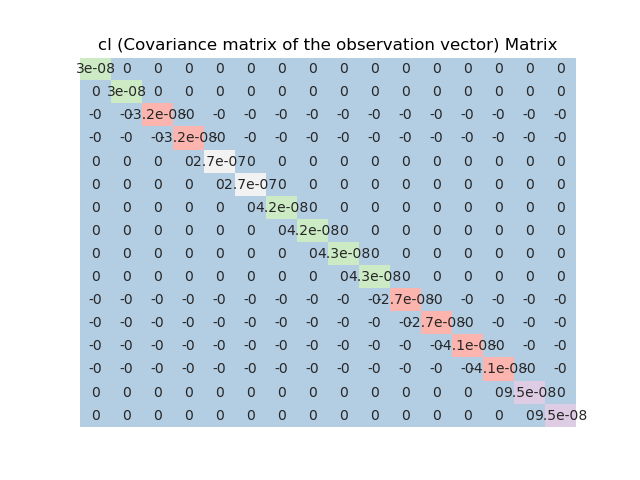
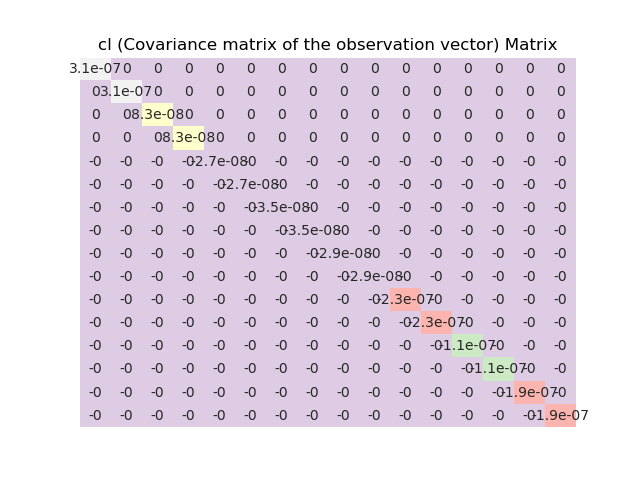
Trig functions converted to 3D trig. WARNING: code not running.

diff --git a/Data.py b/Data.py
@@ -153,21 +153,19 @@ NOTE: Satellite G24 has the highest elevation: 71 degrees.
 """
 
 # Calculate Satelite elevation from a local horizon.
-def elevation_calculator(ECtoSat_Z, ECtoSat_X, EctoRec_Z, EctoRec_X, SattoRec_range):
+def elevation_calculator(rec_XYZ, sat_XYZ, obs):
 
-    EC_sat_range = sqrt((ECtoSat_X ** 2) + (ECtoSat_Z ** 2))
-    EctoRec_range = sqrt((EctoRec_X) ** 2 + (EctoRec_Z ** 2))
-    SattoRec_range = SattoRec_range
+    r_rv = sqrt(abs(rec_XYZ[0]**2) + abs(rec_XYZ[1]**2))
+    re = sqrt(abs(r_rv**2) + abs(rec_XYZ[2]))
+    s_rv = sqrt(sat_XYZ[0]**2 + sat_XYZ[1]**2)
+    se = sqrt(s_rv**2 + sat_XYZ[2])
+    # Calculate subtending angle between receiver, center of the earth and the satellite.
+    theta = ((acos(((se ** 2) + (re ** 2) - (rec_XYZ[2] ** 2))/(2 * se * re))))
+    print("Earth center vector = radians: ", theta, "degrees: ", degrees(theta) )
+    cos_el = (sin(theta)) / sqrt((1 + ((re/obs[0])**2) * (-2 * (re/obs[0])) * cos(theta)))
+    el = degrees((acos(cos_el)))
+    return (el - 90)
 
-    c = EC_sat_range
-    b = EctoRec_range
-    a = SattoRec_range
-
-
-    angle = degrees((acos((c ** 2 - b ** 2 - a ** 2) / (-2.0 * a * b))))
-
-    elevation = abs(angle - 90)
-    return elevation
 
 
 def variance(s, e):
@@ -177,17 +175,26 @@ def variance(s, e):
 l1_SD = 0.003
 
 # Determine elevationss
-G24_elevation = (elevation_calculator(G24[2], G24[0], pillar_1A_base[2], pillar_1A_base[0], G24_base_obs[0]))
-G19_elevation = (elevation_calculator(G19[2], G19[0], pillar_1A_base[2], pillar_1A_base[0], G19_base_obs[0]))
-G17_elevation = (elevation_calculator(G17[2], G17[0], pillar_1A_base[2], pillar_1A_base[0], G17_base_obs[0]))
-G15_elevation = (elevation_calculator(G15[2], G15[0], pillar_1A_base[2], pillar_1A_base[0], G15_base_obs[0]))
-G13_elevation = (elevation_calculator(G13[2], G13[0], pillar_1A_base[2], pillar_1A_base[0], G13_base_obs[0]))
-G12_elevation = (elevation_calculator(G12[2], G12[0], pillar_1A_base[2], pillar_1A_base[0], G12_base_obs[0]))
-G10_elevation = (elevation_calculator(G10[2], G10[0], pillar_1A_base[2], pillar_1A_base[0], G10_base_obs[0]))
-G18_elevation = 5 # Something wrong with this satellite..(Random Value for now)
+G24_elevation = elevation_calculator(pillar_3A_rover, G24, G24_rover_obs)
+G19_elevation = elevation_calculator(pillar_3A_rover, G19, G19_rover_obs)
+# G17_elevation = elevation_calculator(pillar_3A_rover, G17, G17_rover_obs)
+G15_elevation = elevation_calculator(pillar_3A_rover, G15, G15_rover_obs)
+G13_elevation = elevation_calculator(pillar_3A_rover, G13, G13_rover_obs)
+G12_evation = elevation_calculator(pillar_3A_rover, G12, G12_rover_obs)
+G10_elevation = elevation_calculator(pillar_3A_rover, G10, G10_rover_obs)
+G18_elevation = elevation_calculator(pillar_3A_rover, G18, G18_rover_obs)
+
+print("G24 angle of elevation:", G24_elevation)
+print("G19 angle of elevation:", G19_elevation)
+# print("G17 angle of elevation:", G17_elevation)
+print("G15 angle of elevation:", G15_elevation)
+print("G13 angle of elevation:", G13_elevation)
+print("G12 angle of elevation:", G12_elevation)
+print("G10 angle of elevation:", G10_elevation)
+print("G18 angle of elevation:", G18_elevation)
+
 
 # Populate the a vector of variances.
-
 G24_variance = variance(l1_SD, G24_elevation)
 G19_variance = variance(l1_SD, G19_elevation)
 G17_variance = variance(l1_SD, G17_elevation)
@@ -212,14 +219,14 @@ variances = np.array([
 
 
 
-# print("G24 angle of elevation:", G24_elevation)
-# print("G19 angle of elevation:", G19_elevation)
-# print("G17 angle of elevation:", G17_elevation)
-# print("G15 angle of elevation:", G15_elevation)
-# print("G13 angle of elevation:", G13_elevation)
-# print("G12 angle of elevation:", G12_elevation)
-# print("G10 angle of elevation:", G10_elevation)
-# print("G18 angle of elevation:")
+
+
+
+
+
+
+
+
 
 
 

diff --git a/Computations.py b/Computations.py
@@ -207,7 +207,6 @@ if __name__ == "__main__":
 
     # Calculate A^TWA
     atwa = ATWA(A, Wd)
-    print(atwa)
 
     # Output the A matrix
     sns.heatmap(atwa,
@@ -267,11 +266,15 @@ if __name__ == "__main__":
     ])
 
     X_hat = calculate_x_hat(A, Wd, b)
-    print(X_hat)
-
     X_post = pillar_3A_rover - X_hat
 
-    print(X_post)
+    print('X: ', X_post[0])
+    print('Y: ', X_post[0])
+    print('X: ', X_post[0])
+
+
+
+
 
 
 
